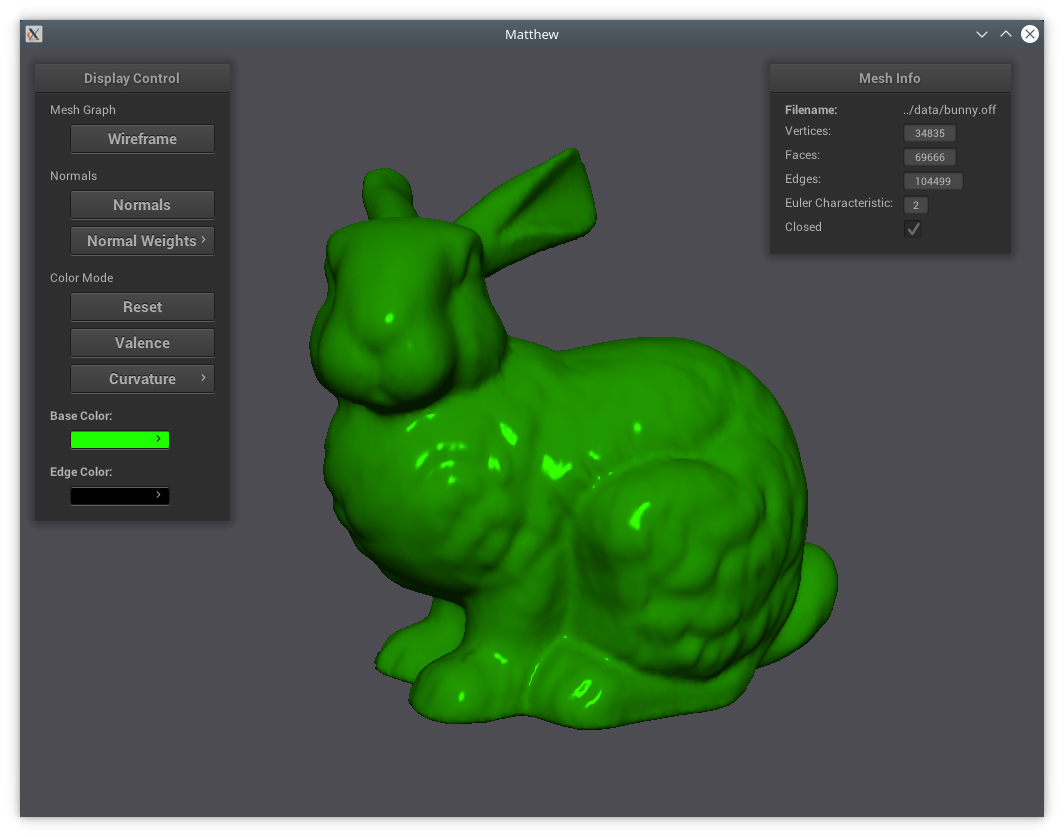
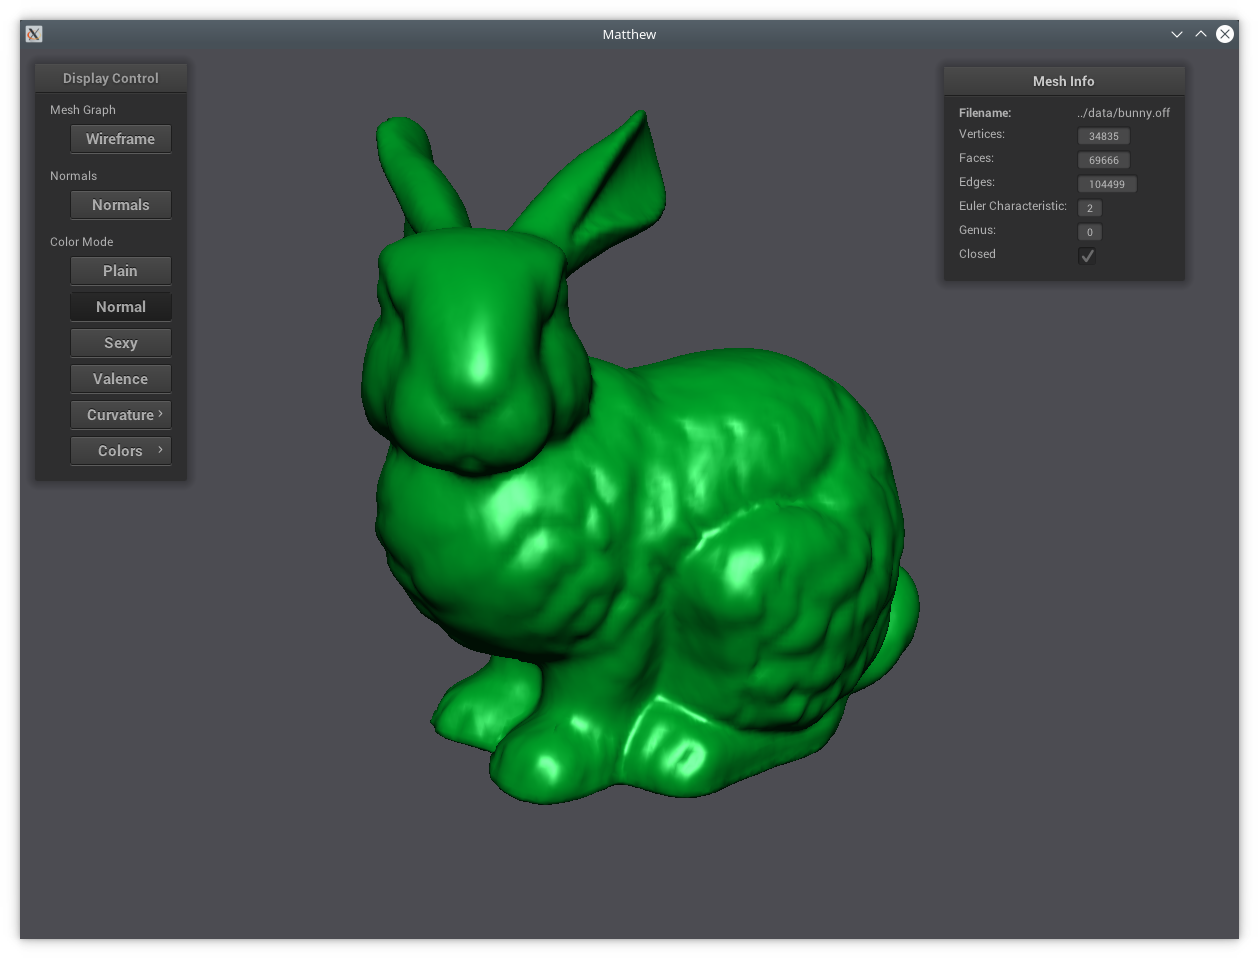
Add sexy mode

diff --git a/matthew/meshiew.h b/matthew/meshiew.h
@@ -11,10 +11,13 @@
 class Meshiew : public Matthew {
 public:
     explicit Meshiew();
+
     virtual ~Meshiew();
+
 protected:
     void meshProcess();
-    void calc_weights() ;
+
+    void calc_weights();
 
     void calc_edges_weights();
 
@@ -30,26 +33,28 @@ protected:
 
     void create_gui_elements();
 
-    void drawContents() override ;
+    void drawContents() override;
 
     static Point computeCenter(Surface_mesh *mesh);
 
     void load(std::string filename);
 
     void initShaders() override;
+
     Point get_model_center() override;
+
     float get_model_dist_max() override;
 
-    void color_coding(Surface_mesh::Vertex_property<Scalar> prop, Surface_mesh *mesh,
-                      Surface_mesh::Vertex_property<surface_mesh::Color> color_prop, int bound = 20);
+    void color_coding(Surface_mesh::Vertex_property <Scalar> prop, Surface_mesh *mesh,
+                      Surface_mesh::Vertex_property <surface_mesh::Color> color_prop, int bound = 20);
 
     static void set_color(Surface_mesh::Vertex v, const surface_mesh::Color &col,
-                          Surface_mesh::Vertex_property<surface_mesh::Color> color_prop);
+                          Surface_mesh::Vertex_property <surface_mesh::Color> color_prop);
 
     surface_mesh::Color value_to_color(Scalar value, Scalar min_value, Scalar max_value);
 
     enum COLOR_MODE : int {
-        SEXY = 0, VALENCE = 1, CURVATURE = 2, PLAIN = 10
+        NORMAL = 0, VALENCE = 1, CURVATURE = 2, PLAIN = 10, SEXY = 100
     };
 
     enum CURVATURE_TYPE : int {
@@ -57,7 +62,7 @@ protected:
     };
 
     enum LIGHT_MODEL : int {
-        NO_LIGHT = 0, LAMBERT = 1, PHONG = 2
+        NO_LIGHT = 0, LAMBERT = 1, PHONG = 2, SHINY = 3
     };
 
     int n_faces = 0;
@@ -68,7 +73,7 @@ protected:
     float dist_max;
 
     Eigen::Vector3f base_color;
-    COLOR_MODE color_mode = SEXY;
+    COLOR_MODE color_mode = NORMAL;
     CURVATURE_TYPE curvature_type = GAUSS;
     Eigen::Vector3f edge_color;
     Eigen::Vector3f light_color;
@@ -77,10 +82,10 @@ protected:
     Surface_mesh mesh;
     bool normals = false;
     nanogui::PopupButton *popupCurvature;
-    Surface_mesh::Vertex_property<surface_mesh::Color> v_color_curvature;
-    Surface_mesh::Vertex_property<surface_mesh::Color> v_color_gaussian_curv;
-    Surface_mesh::Vertex_property<surface_mesh::Color> v_color_unicurvature;
-    Surface_mesh::Vertex_property<surface_mesh::Color> v_color_valence;
+    Surface_mesh::Vertex_property <surface_mesh::Color> v_color_curvature;
+    Surface_mesh::Vertex_property <surface_mesh::Color> v_color_gaussian_curv;
+    Surface_mesh::Vertex_property <surface_mesh::Color> v_color_unicurvature;
+    Surface_mesh::Vertex_property <surface_mesh::Color> v_color_valence;
     nanogui::Window *window;
     bool wireframe = false;
     nanogui::Button *wireframeBtn;

diff --git a/matthew/meshiew.cpp b/matthew/meshiew.cpp
@@ -92,12 +92,15 @@ void Meshiew::drawContents() {
 
     LIGHT_MODEL light_model;
     switch (this->color_mode) {
-        case SEXY:
+        case NORMAL:
             light_model = PHONG;
             break;
         case VALENCE:
         case CURVATURE:
             light_model = LAMBERT;
+            break;
+        case SEXY:
+            light_model = SHINY;
             break;
         case PLAIN:
         default:
@@ -445,14 +448,23 @@ void Meshiew::create_gui_elements() {
         this->wireframe = true;
     });
 
-    b = new Button(window, "Sexy");
+    b = new Button(window, "Normal");
     b->setPushed(true);
+    b->setFlags(Button::RadioButton);
+    b->setCallback([this]() {
+        this->color_mode = NORMAL;
+        this->wireframeBtn->setPushed(false);
+        this->wireframe = false;
+    });
+
+    b = new Button(window, "Sexy");
     b->setFlags(Button::RadioButton);
     b->setCallback([this]() {
         this->color_mode = SEXY;
         this->wireframeBtn->setPushed(false);
         this->wireframe = false;
     });
+
     b = new Button(window, "Valence");
     b->setFlags(Button::RadioButton);
     b->setCallback([this]() {
